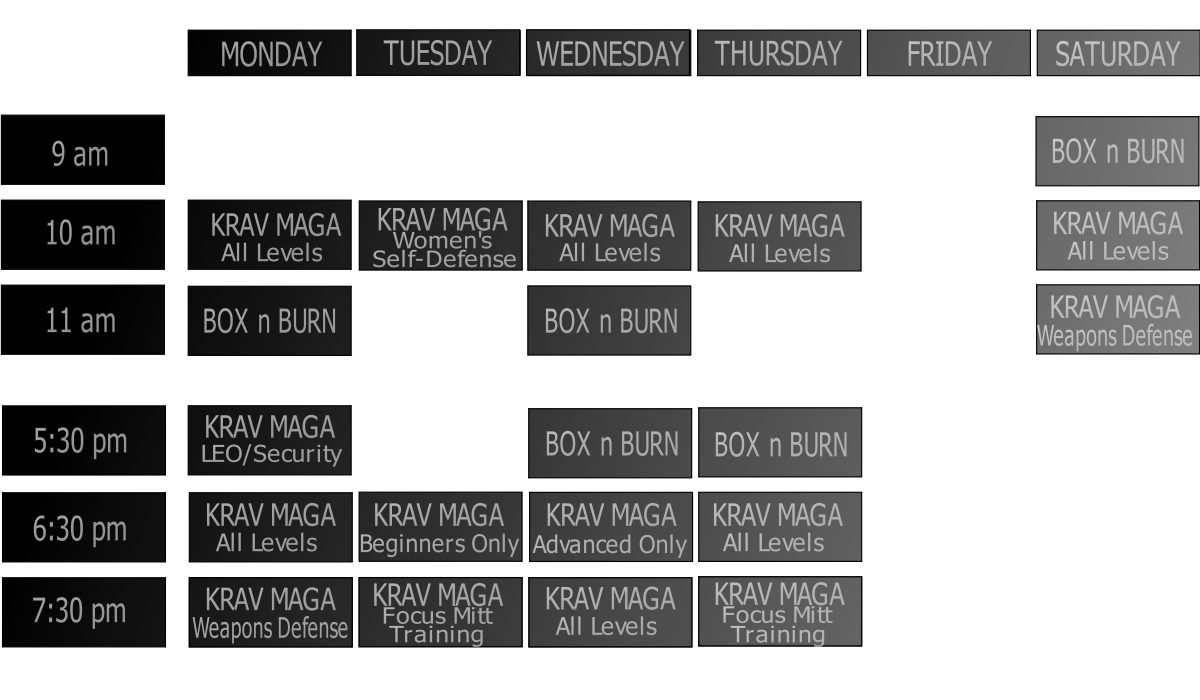
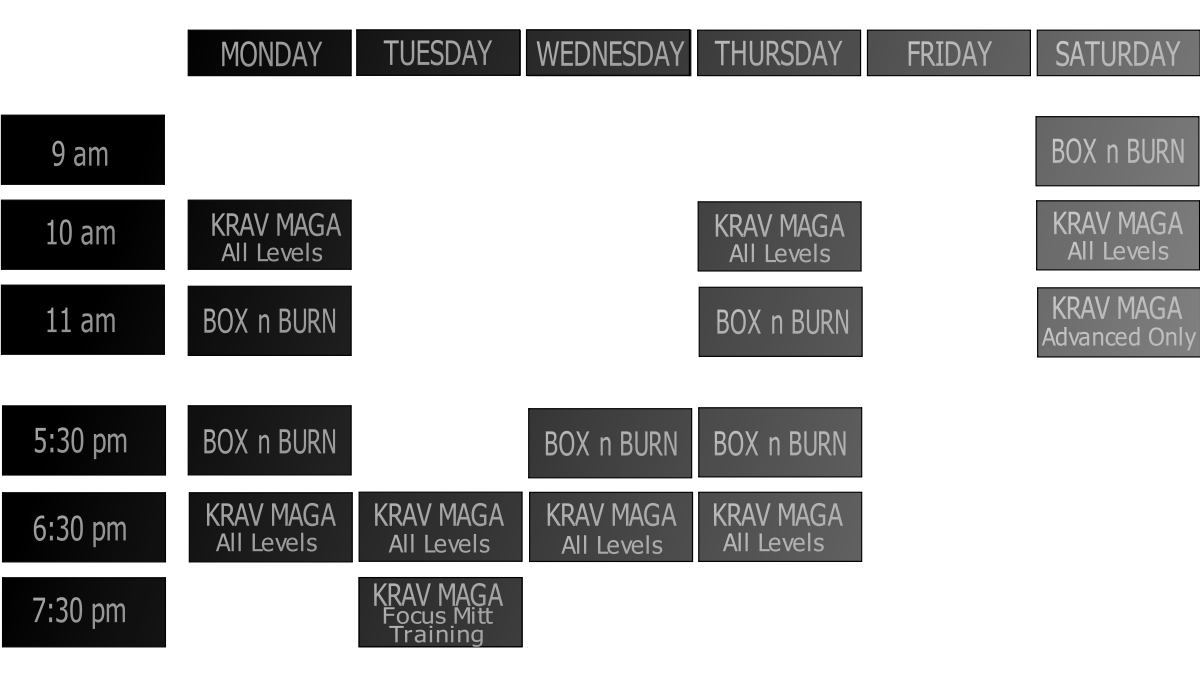
new schedule

diff --git a/index.html b/index.html
@@ -380,9 +380,9 @@
             
             <div class="container section-content" style="padding-top:0;">
   
-        <a id="thuboxfivepop" class="pop btn" data-img="assets/img/schinst/caroline.jpg" rel="popover" data-pointer="thuboxfive" data-title="Thursday Box n Burn with Caroline" ></a>
-        <a id="thukravsixpop" class="pop btn" data-img="assets/img/schinst/caroline.jpg" rel="popover" data-pointer="thukravsix" data-title="Thursday Krav Maga with Caroline" ></a>
-        <a id="thumittsevpop" class="pop btn" data-img="assets/img/schinst/caroline.jpg" rel="popover" data-pointer="thumittsev" data-title="Thursday Mitt Class with Caroline" ></a>
+        <a id="wedboxfivepop" class="pop btn" data-img="assets/img/schinst/caroline.jpg" rel="popover" data-pointer="wedboxfive" data-title="Wednesday Box n Burn with Caroline" ></a>
+        <a id="wedkravsixpop" class="pop btn" data-img="assets/img/schinst/caroline.jpg" rel="popover" data-pointer="wedkravsix" data-title="Wednesday Krav Maga with Caroline" ></a>
+
 
         <div id="schrow" class="row schedulerow">
 
@@ -487,22 +487,7 @@
              189.00,201.00 350.00,201.00 350.00,201.00 Z" />
     
     
-        <path id="tuekravten" class="tue ten"
-           fill="rgba(124,240,10,0)" stroke="black" stroke-width="1" stroke-opacity="0"
-          d="M 521.00,202.00
-           C 521.00,202.00 521.00,269.00 521.00,269.00
-             521.00,269.00 360.00,269.00 360.00,269.00
-             360.00,269.00 360.00,202.00 360.00,202.00
-             360.00,202.00 521.00,202.00 521.00,202.00 Z" />
-    
-    
-        <path id="wedkravten" class="wed ten"
-           fill="rgba(124,240,10,0)" stroke="black" stroke-width="1" stroke-opacity="0"
-          d="M 690.00,202.00
-           C 690.00,202.00 690.00,269.00 690.00,269.00
-             690.00,269.00 529.00,269.00 529.00,269.00
-             529.00,269.00 529.00,202.00 529.00,202.00
-             529.00,202.00 690.00,202.00 690.00,202.00 Z" />
+
     
     
         <path id="satkravten" class="sat ten"
@@ -532,7 +517,7 @@
              2.00,286.00 163.00,286.00 163.00,286.00 Z" />
     
     
-        <path id="monboxelev" class="sat elev"
+        <path id="satboxelev" class="sat elev"
            fill="rgba(124,240,10,0)" stroke="black" stroke-width="1" stroke-opacity="0"
           d="M 1199.00,286.00
            C 1199.00,286.00 1199.00,353.00 1199.00,353.00
@@ -541,7 +526,7 @@
              1038.00,286.00 1199.00,286.00 1199.00,286.00 Z" />
     
     
-        <path id="wedboxelev" class="mon elev"
+        <path id="monboxelev" class="mon elev"
            fill="rgba(124,240,10,0)" stroke="black" stroke-width="1" stroke-opacity="0"
           d="M 350.00,287.00
            C 350.00,287.00 350.00,354.00 350.00,354.00
@@ -550,13 +535,14 @@
              189.00,287.00 350.00,287.00 350.00,287.00 Z" />
     
     
-        <path id="satweap" class="wed elev"
+        <path id="thuboxelev" class="thu elev"
            fill="rgba(124,240,10,0)" stroke="black" stroke-width="1" stroke-opacity="0"
-          d="M 690.00,287.00
-           C 690.00,287.00 690.00,354.00 690.00,354.00
-             690.00,354.00 529.00,354.00 529.00,354.00
-             529.00,354.00 529.00,287.00 529.00,287.00
-             529.00,287.00 690.00,287.00 690.00,287.00 Z" />
+          d="M 863.00,286.00
+           C 863.00,286.00 863.00,357.00 863.00,357.00
+             863.00,357.00 698.00,357.00 698.00,357.00
+             698.00,357.00 698.00,286.00 698.00,286.00
+             698.00,286.00 863.00,286.00 863.00,286.00 Z" />
+
     
     
         <path id="five" class="five"
@@ -611,7 +597,7 @@
              360.00,493.00 521.00,493.00 521.00,493.00 Z" />
     
     
-        <path id="wedadvsix" class="wed six"
+        <path id="wedkravsix" class="wed six"
            fill="rgba(124,240,10,0)" stroke="black" stroke-width="1" stroke-opacity="0"
           d="M 692.00,493.00
            C 692.00,493.00 692.00,560.00 692.00,560.00
@@ -646,21 +632,6 @@
              4.00,646.00 4.00,579.00 4.00,579.00
              4.00,579.00 164.00,579.00 164.00,579.00 Z" />    
 
-        <path id="thumittsev" class="thu sev"
-           fill="rgba(124,240,10,0)" stroke="black" stroke-width="1" stroke-opacity="0"
-          d="M 861.00,578.00
-           C 861.00,578.00 861.00,645.00 861.00,645.00
-             861.00,645.00 700.00,645.00 700.00,645.00
-             700.00,645.00 700.00,578.00 700.00,578.00
-             700.00,578.00 861.00,578.00 861.00,578.00 Z" />
-    
-        <path id="monweapsev" class="mon sev"
-           fill="rgba(124,240,10,0)" stroke="black" stroke-width="1" stroke-opacity="0"
-          d="M 351.00,579.00
-           C 351.00,579.00 351.00,646.00 351.00,646.00
-             351.00,646.00 190.00,646.00 190.00,646.00
-             190.00,646.00 190.00,579.00 190.00,579.00
-             190.00,579.00 351.00,579.00 351.00,579.00 Z" />
     
     
         <path id="tuekravsev" class="tue sev"
@@ -672,13 +643,7 @@
              360.00,579.00 521.00,579.00 521.00,579.00 Z" />
     
     
-        <path id="wedkravsev" class="wed sev"
-           fill="rgba(124,240,10,0)" stroke="black" stroke-width="1" stroke-opacity="0"
-          d="M 691.00,579.00
-           C 691.00,579.00 691.00,646.00 691.00,646.00
-             691.00,646.00 530.00,646.00 530.00,646.00
-             530.00,646.00 530.00,579.00 530.00,579.00
-             530.00,579.00 691.00,579.00 691.00,579.00 Z" />
+
     
 </svg>
 </div>
@@ -1477,13 +1442,14 @@
 
 // })
 // $("#wedboxfive").hover(function(){  
-//     $('#myModal').modal('show');
+//     $(this).attr("fill","#0AB04B");
+//     $('#wedboxfivepop').popover('toggle');
 
 // })
- $("#thuboxfive").hover(function(){  
-   $(this).attr("fill","#0AB04B");
-    $('#thuboxfivepop').popover('toggle');
- });
+ // $("#thuboxfive").hover(function(){  
+ //   $(this).attr("fill","#0AB04B");
+ //    $('#thuboxfivepop').popover('toggle');
+ // });
 
 // $("#monkravsix").hover(function(){  
 //     $('#myModal').modal('show');
@@ -1493,14 +1459,15 @@
 //     $('#myModal').modal('show');
 
 // })
-// $("#wedadvsix").hover(function(){  
-//     $('#myModal').modal('show');
+// $("#wedkravsix").hover(function(){  
+//    $(this).attr("fill","#0AB04B");
+//     $('#wedkravsixpop').popover('toggle');
 
 // })
-$("#thukravsix").hover(function(){ 
-   $(this).attr("fill","#0AB04B");
-    $('#thukravsixpop').popover('toggle');
-});
+// $("#thukravsix").hover(function(){ 
+//    $(this).attr("fill","#0AB04B");
+//     $('#thukravsixpop').popover('toggle');
+// });
 
 // $("#monweapsev").hover(function(){  
 //     $('#myModal').modal('show');
@@ -1515,10 +1482,10 @@ $("#thukravsix").hover(function(){
 
 // })
 
-$("#thumittsev").hover(function(){  
-    $(this).attr("fill","#0AB04B");
-    $('#thumittsevpop').popover('toggle');
-});
+// $("#thumittsev").hover(function(){  
+//     $(this).attr("fill","#0AB04B");
+//     $('#thumittsevpop').popover('toggle');
+// });
 
 $('a[rel=popover]').popover({
   html: true,

diff --git a/assets/css/styles.css b/assets/css/styles.css
@@ -1092,7 +1092,7 @@ media screen and(min - width: 768 px) {.carousel - control.glyphicon - chevron -
 .pop{
     position:absolute;
     top:43%;
-    left:56%;
+    left:50%;
 }
 
 .popover  {
